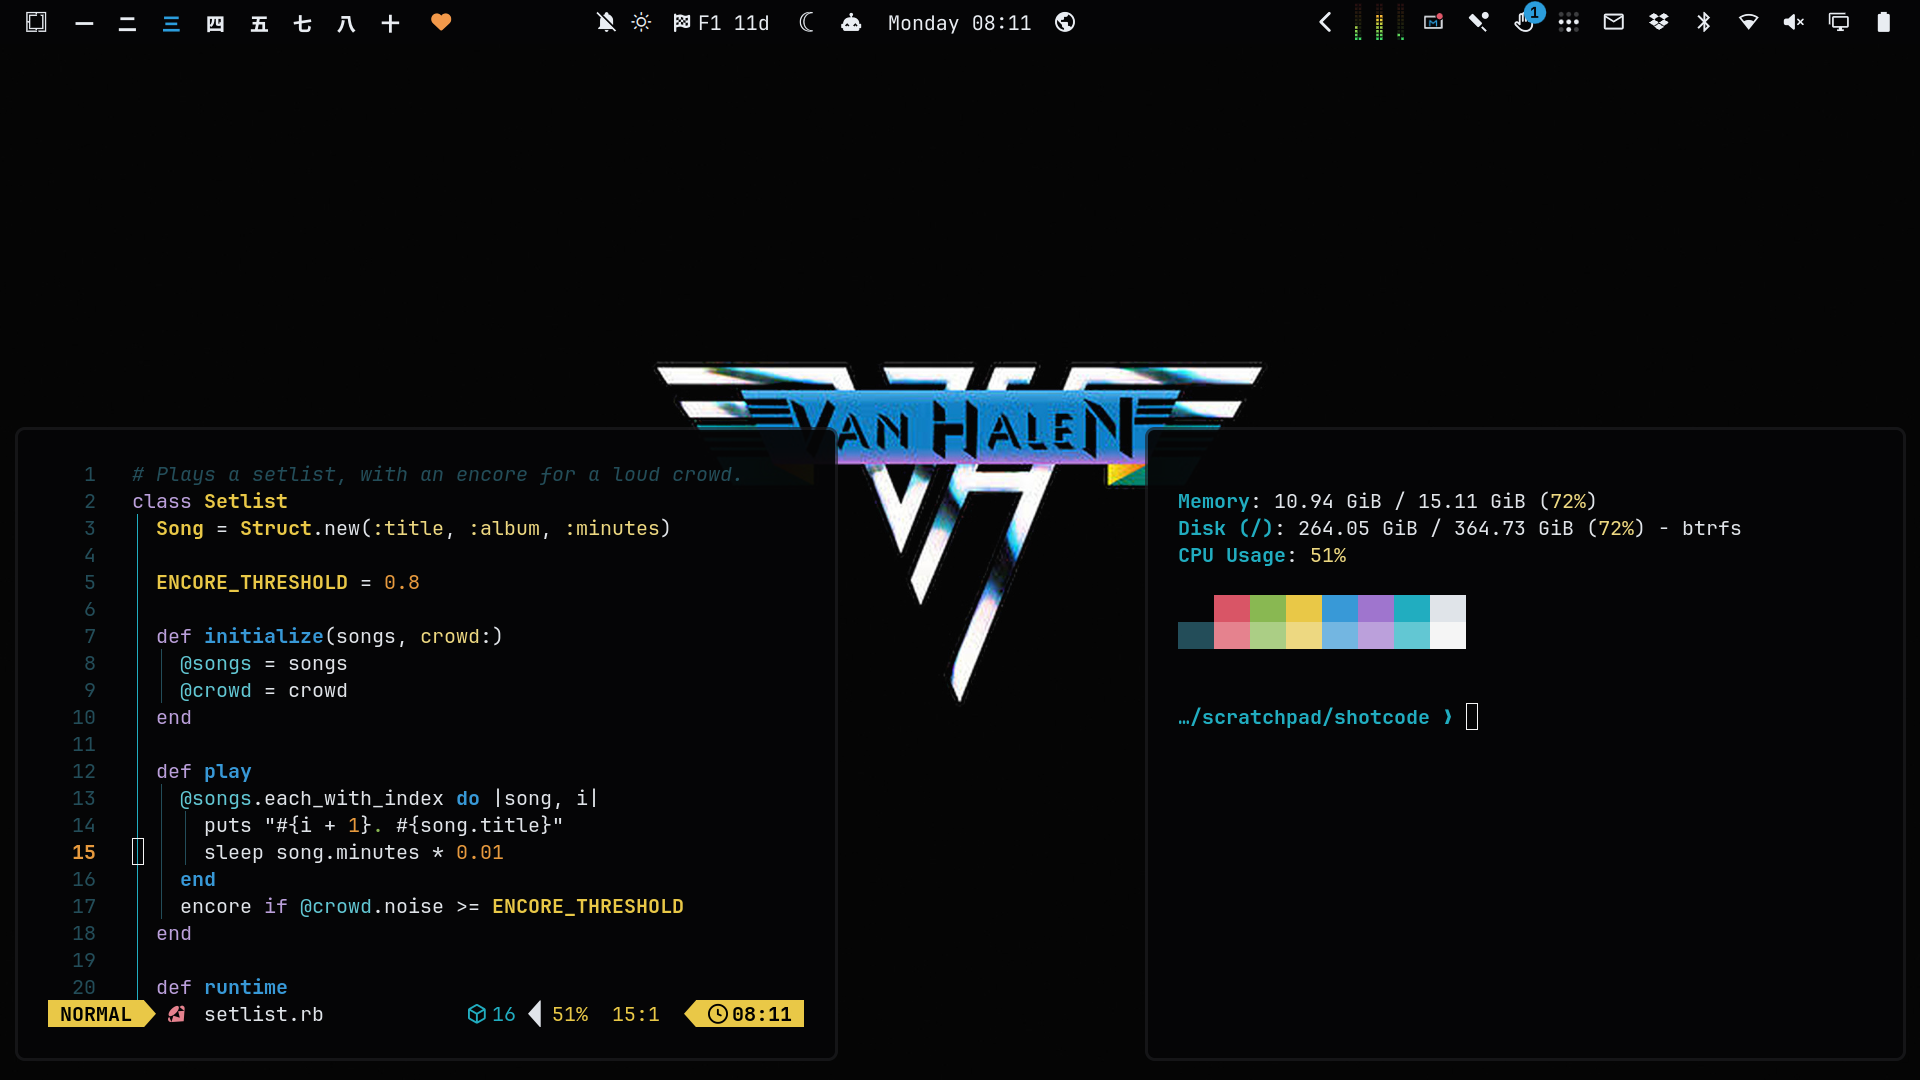
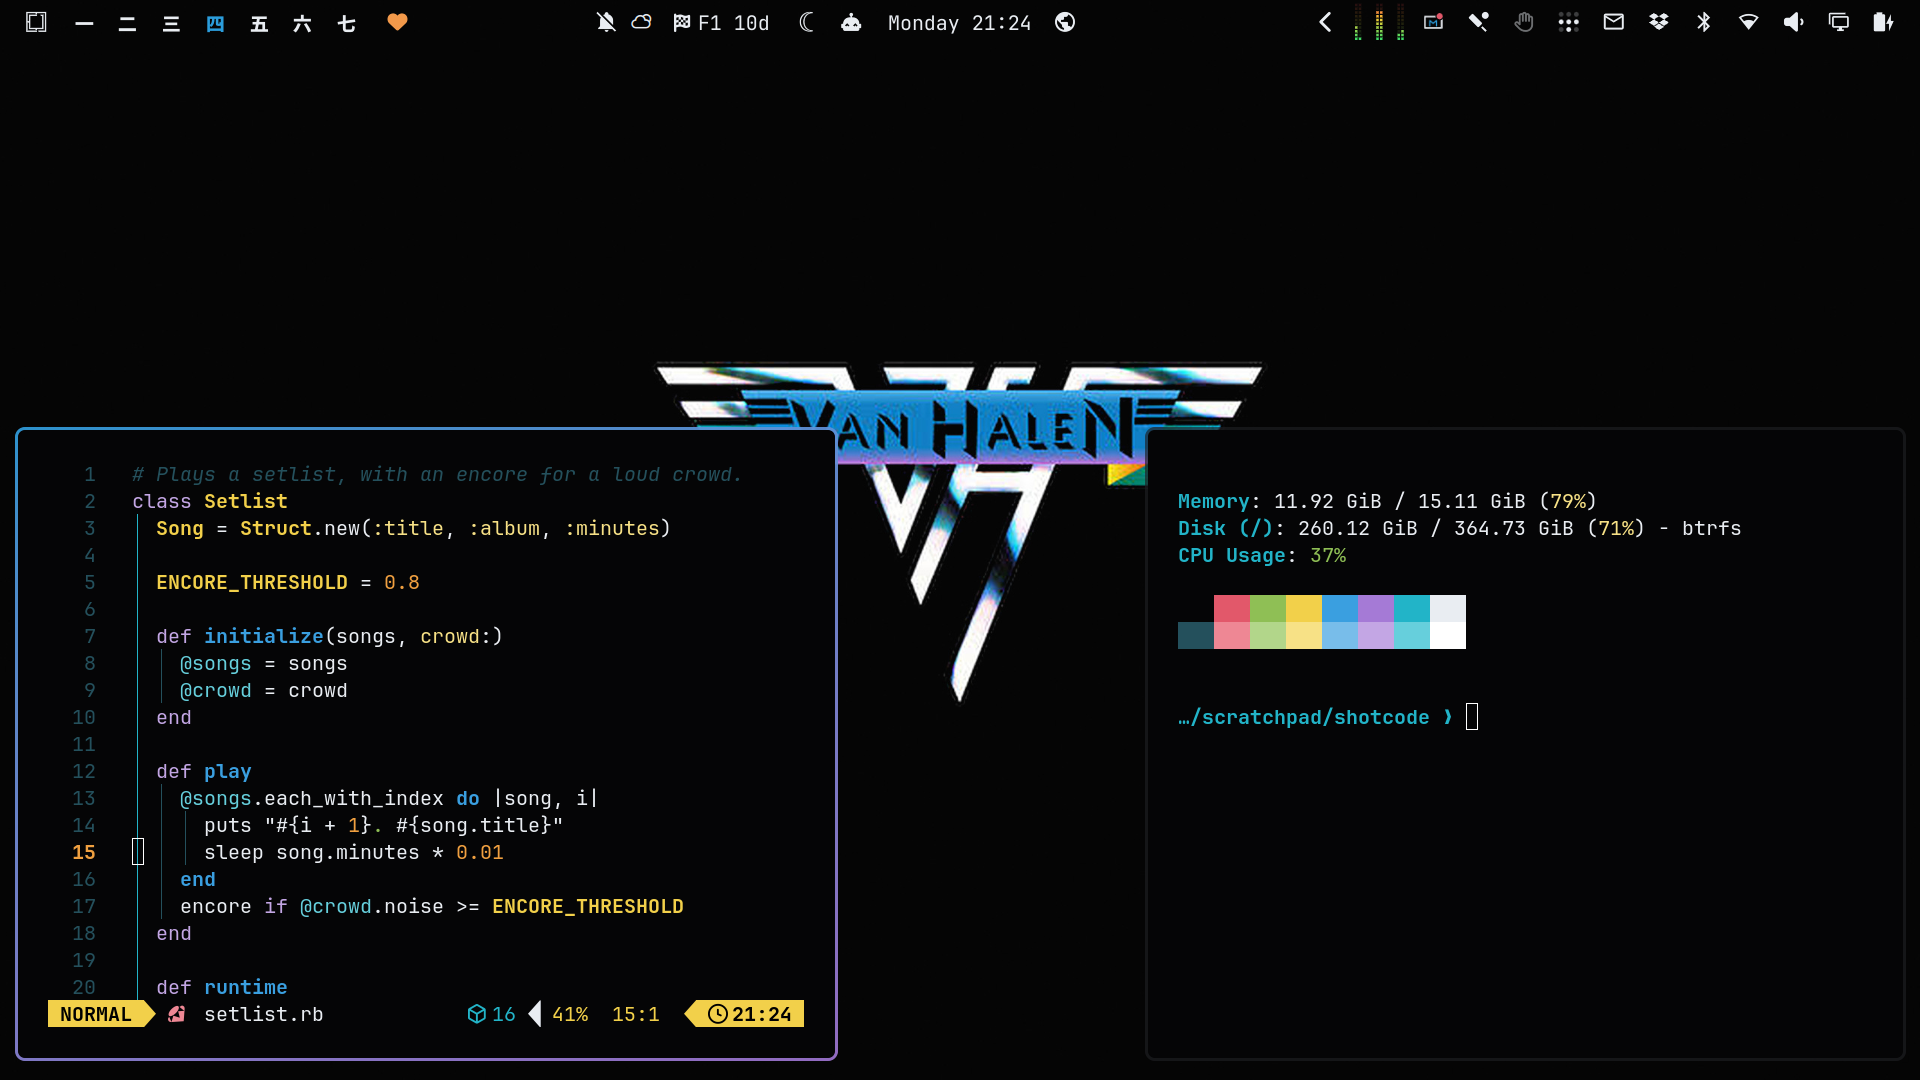
Screenshots of every wallpaper and btop, preview with the active border

diff --git a/README.md b/README.md
@@ -2,7 +2,7 @@
 
 An [Omarchy](https://omarchy.org/) theme from the winged logo on Van Halen's first album, *Van Halen* (Warner Bros., 1978). The background is the sleeve's black. Text is the chrome of the wings, and the accent is the blue of the banner.
 
-![Van Halen I](preview.png)
+![Van Halen I with Neovim and a terminal](preview.png)
 
 ## Install
 
@@ -14,13 +14,19 @@ The theme applies as soon as it installs.
 
 ## Backgrounds
 
-| File | Shows |
-|------|-------|
-| `1-van-halen.jpg` | The winged logo, centred |
-| `2-corner.jpg` | The logo small in the lower right corner |
+<table>
+  <tr>
+    <td width="50%"><img src="screenshots/desktop-1-van-halen.webp" alt="The winged logo, centred"><br><code>1-van-halen.jpg</code>: the winged logo, centred</td>
+    <td width="50%"><img src="screenshots/desktop-2-corner.webp" alt="The logo in the corner"><br><code>2-corner.jpg</code>: the logo small in the lower right corner</td>
+  </tr>
+</table>
 
 Switch between them with `omarchy theme bg next`.
 
+## btop
+
+![btop in Van Halen I](screenshots/btop.webp)
+
 ## Licence
 
-The theme files are MIT licensed, see [LICENSE](LICENSE). The wallpapers and preview are built from the album artwork, which belongs to its rights holders. This is an unofficial fan theme.
+The theme files are MIT licensed, see [LICENSE](LICENSE). The wallpapers and screenshots are built from the album artwork, which belongs to its rights holders. This is an unofficial fan theme.
